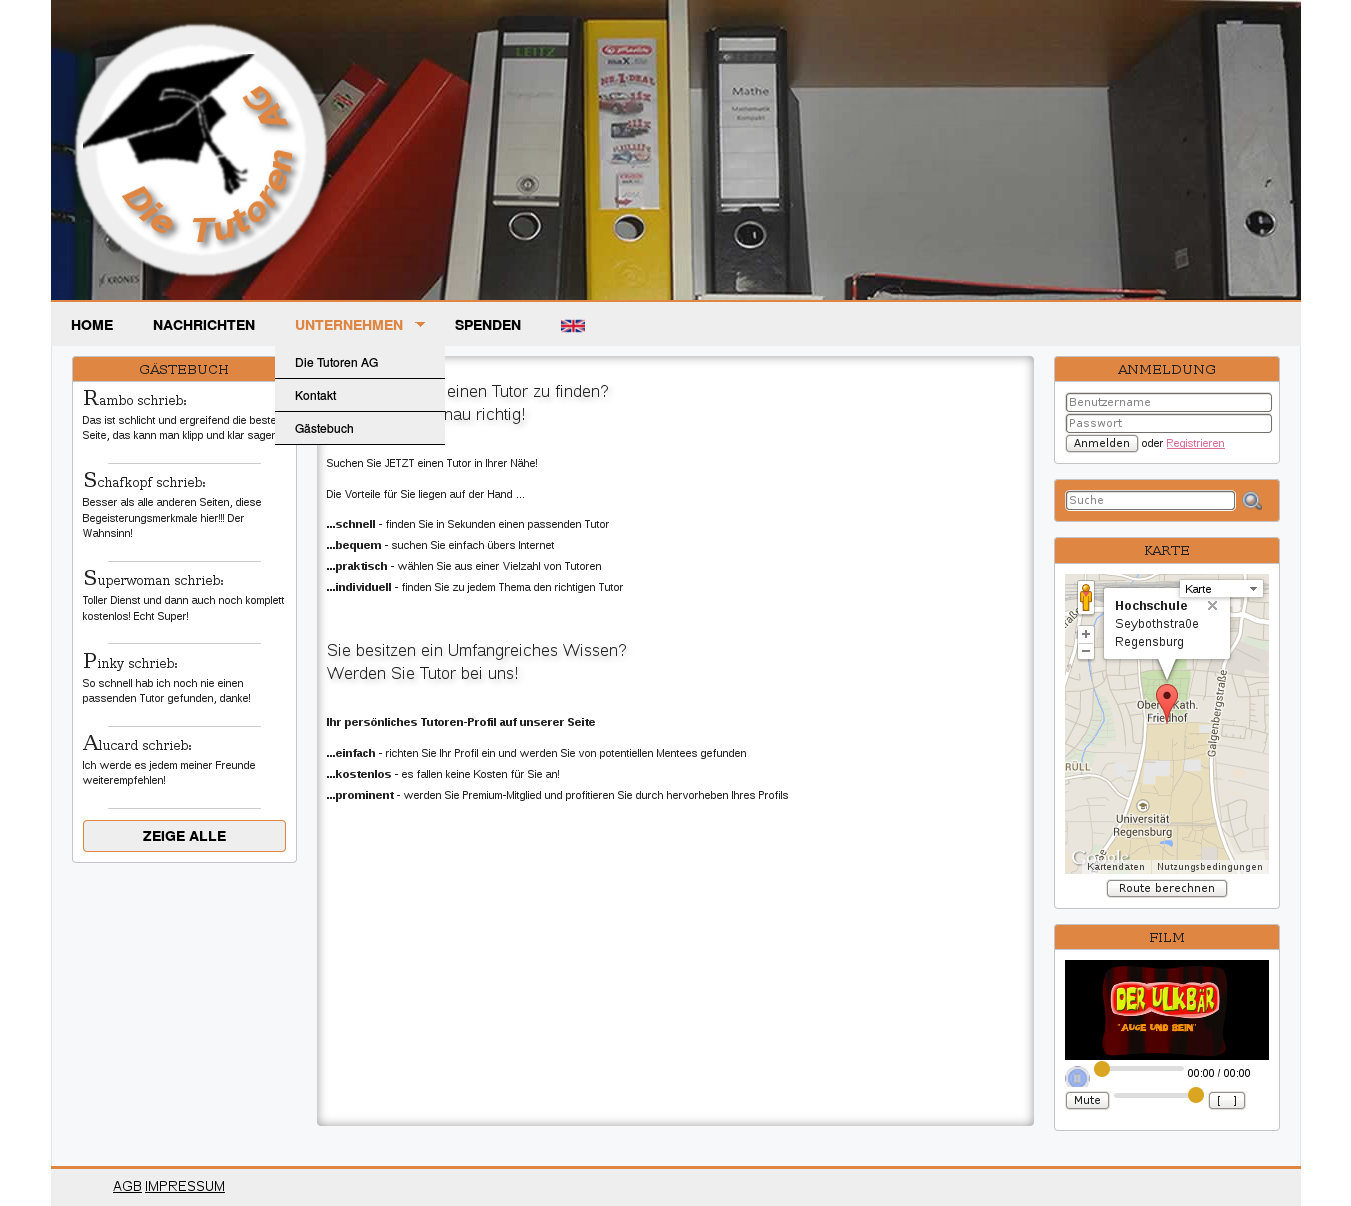
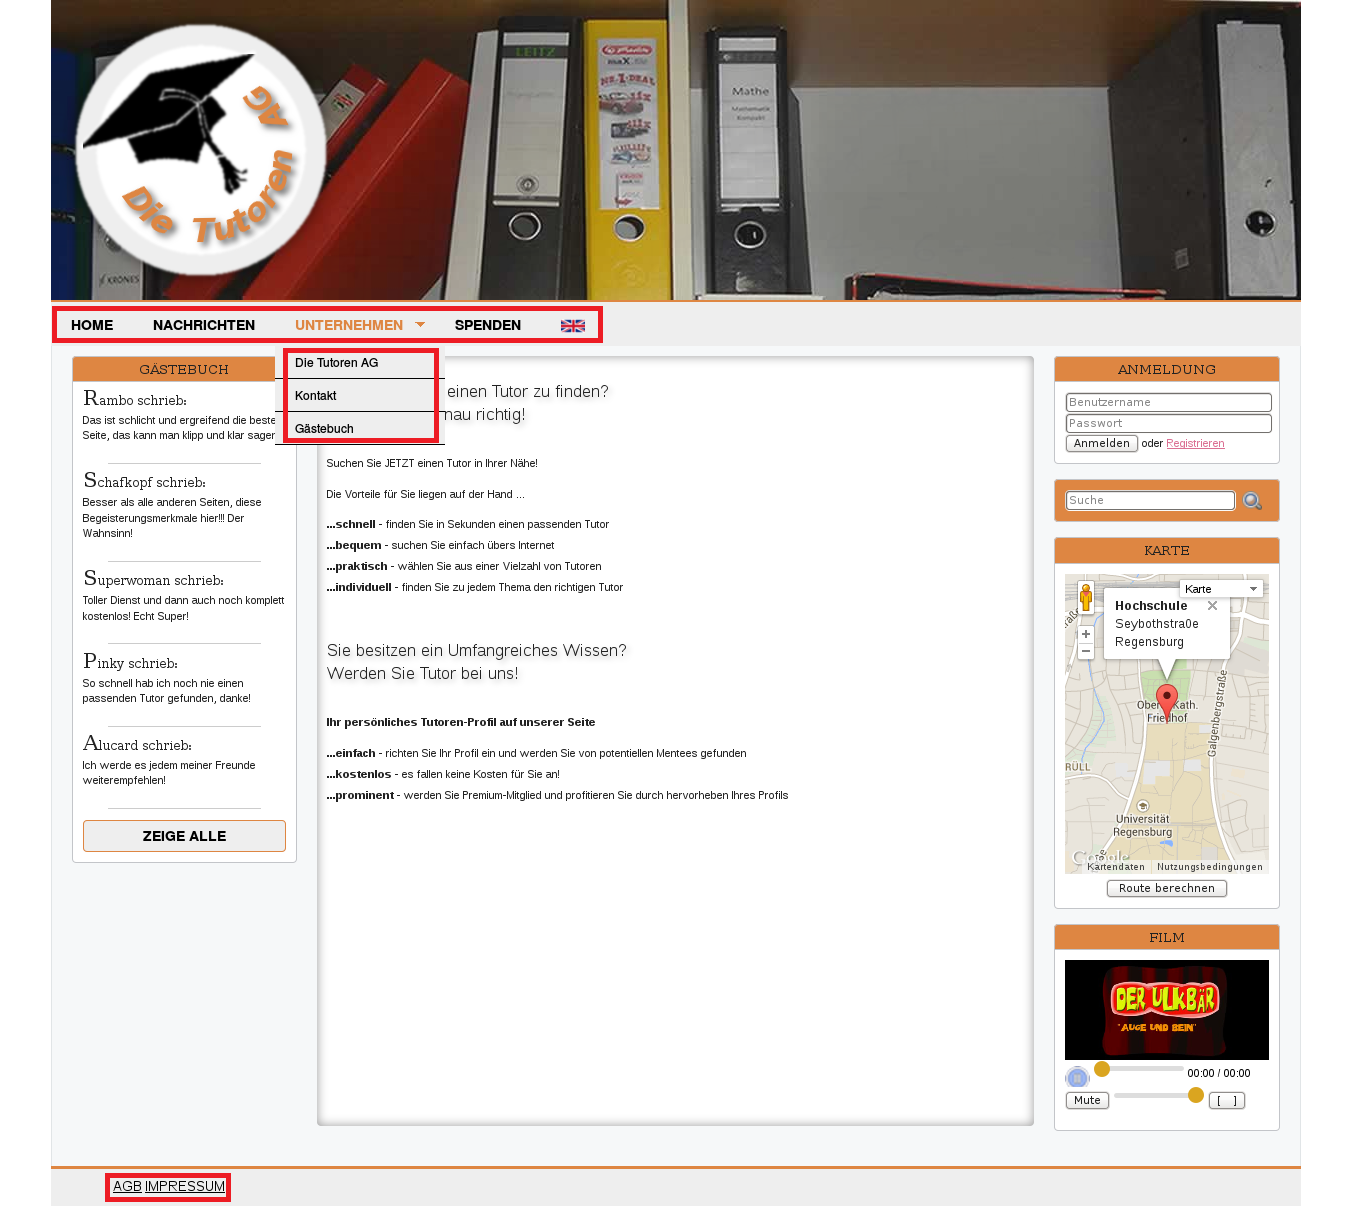
menü doku

Changed region(s): [[0.0311, 0.2454, 0.4663, 0.3682], [0.0622, 0.9511, 0.1865, 1.0]]

diff --git a/Documents/Doku/Seiten_Doku/seiten-doku.tex b/Documents/Doku/Seiten_Doku/seiten-doku.tex
@@ -8,7 +8,7 @@
 \geometry{a4paper,left=25mm,right=25mm, top=2cm, bottom=3cm}
 
 \title{\bfseries Seitendokumentation}
-\author{Daniel Tatzel \and Tobias Schwindl \and Florian Laufenböck \and Alexander Strobl \and Nils Weiß \and Matthias Götz \and Maximilian Schröter}
+\author{Daniel Tatzel \and Tobias Schwindl \and Florian Laufenböck \and Alexander Strobl \and Nils Weiß \and Matthias Götz \and Maximilian Schröter\and Matthias Birnthaler}
 \date{\today}
 
 \pdfinfo{%
@@ -38,5 +38,6 @@
 \include{./chapters/slideshow}
 \include{./chapters/donation}
 \include{./chapters/register}
+\include{./chapters/Menu}
 
 \end{document}
